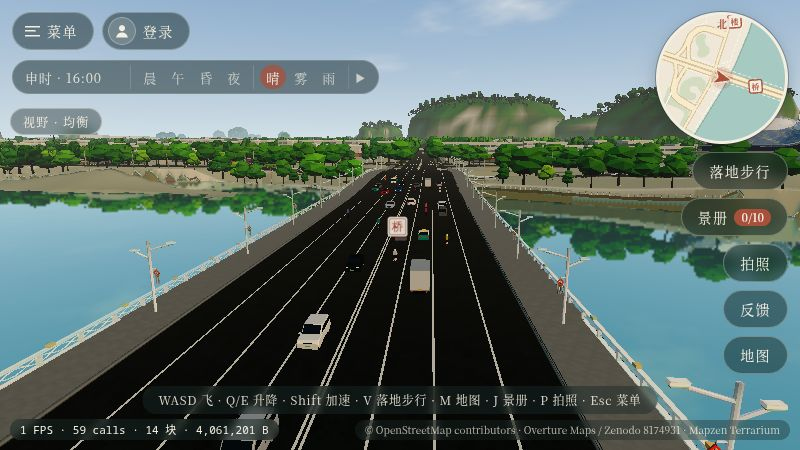
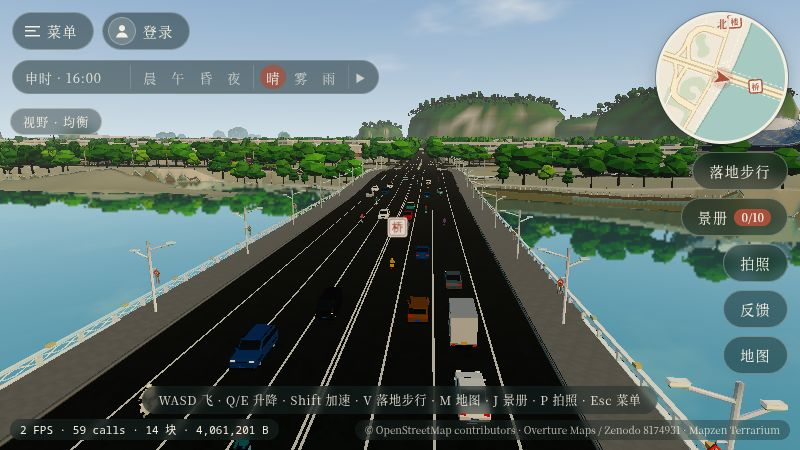
Protect pickup clearance and index static traffic contacts

diff --git a/web/src/traffic/sim.ts b/web/src/traffic/sim.ts
@@ -1,8 +1,9 @@
-import {resolveContact,staticSolids} from './contact.ts'
+import {nearStatic,resolveContact,staticSolids} from './contact.ts'
 type Node = {id:number,x:number,y:number,z:number}
 type Lane = {id:number,from:number,to:number,offset:number,kind:'motor'|'bus'|'nonmotor',speedKmh:number,cls?:string}
 const tier=(cls?:string)=>cls==='primary'||cls==='trunk'?0:cls==='secondary'?1:cls==='tertiary'?2:3
 const density=[1,.6,.35,.12]
+const sector=(point:Position,center:Position)=>(Math.floor(Math.atan2(point.x-center.x,point.z-center.z)*4/Math.PI+.5)+8)%8
 type Phase = {lanes:number[],green:number,yellow:number}
 type Signal={node:number,group:number,offset:number,phases:Phase[]}
 export type Graph = {nodes:Node[],lanes:Lane[],walks:[number,number,number,number?][],signals:Signal[]}
@@ -113,10 +114,17 @@ export class Traffic {
     let persons=0,scooters=0
     this.updateLimits(camera)
     const counts=[0,0,0,0]
-    for(const actor of this.actors)if(actor.kind!=='person')counts[tier(actor.track.cls)]++
-    for(const actor of this.actors){persons+=Number(actor.kind==='person');scooters+=Number(actor.kind==='scooter')}
+    let outside=0
+    const canSpawn=this.actors.length<80
+    const nearbySectors=canSpawn&&visible?new Uint8Array(8):null
+    const sectorPopulation=nearbySectors?new Uint8Array(8):null
+    for(const actor of this.actors){
+      if(actor.kind==='person'){persons++;continue}
+      counts[tier(actor.track.cls)]++;scooters+=Number(actor.kind==='scooter')
+      if(canSpawn&&visible&&!visible(actor))outside++
+      if(nearbySectors&&sectorPopulation){const octant=sector(actor,camera);sectorPopulation[octant]++;if(distanceSq(actor,camera)<65**2)nearbySectors[octant]++}
+    }
     let motors=this.actors.length-persons
-    let outside=visible?this.actors.reduce((count,actor)=>count+Number(actor.kind!=='person'&&!visible(actor)),0):0
     for(let attempt=0;attempt<48 && this.actors.length<80;attempt++){
       const walk=persons<20 && (motors>=60||attempt%3===0)
       if(!walk&&motors>=60)continue
@@ -130,10 +138,14 @@ export class Traffic {
       const actor:Actor={track,dist:this.random()*track.length,speed:0,kind:walk?'person':scooter?'scooter':'car',down:0,dodge:0,x:0,y:0,z:0,yaw:0,scale:0,leaving:false,halfWidth:scooter?.3:.9,halfLength:scooter?.85:2.1,height:1.5}
       this.position(actor)
       const offscreen=!walk&&visible&&!visible(actor)
+      const radial=distanceSq(actor,camera),octant=nearbySectors&&!walk?sector(actor,camera):-1
+      if(octant>=0&&offscreen&&sectorPopulation![octant]>=5&&sectorPopulation!.some(count=>count<4)&&this.random()>.04)continue
+      if(octant>=0&&motors>12&&nearbySectors![octant]<3&&radial>=65**2&&this.random()>.25)continue
       if(offscreen&&outside>=27&&this.limits[0]>=30&&this.random()>.04)continue
-      if(!walk&&resolveContact(actor,actor.y,actor.yaw,actor.halfWidth,actor.halfLength,staticSolids))continue
-      if(distanceSq(actor,camera)>185**2 || this.actors.some(other=>(other.x-actor.x)**2+(other.z-actor.z)**2<(other.track.id===track.id?36:5)))continue
+      if(!walk&&nearStatic(actor.x,actor.z)&&resolveContact(actor,actor.y,actor.yaw,actor.halfWidth,actor.halfLength,staticSolids))continue
+      if(radial>185**2 || this.actors.some(other=>(other.x-actor.x)**2+(other.z-actor.z)**2<(other.track.id===track.id?36:5)))continue
       this.actors.push(actor)
+      if(octant>=0){sectorPopulation![octant]++;if(radial<65**2)nearbySectors![octant]++}
       if(walk)persons++;else {counts[group]++;motors++;scooters+=Number(scooter);outside+=Number(!!offscreen)}
     }
     for(const [node,queue] of this.queues){
@@ -184,7 +196,7 @@ export class Traffic {
         advance=Math.min(advance,gap)
       }
       actor.speed=advance/dt;actor.dist+=advance
-      if(!person&&advance>0){
+      if(!person&&advance>0&&nearStatic(actor.x+track.dx*advance,actor.z+track.dz*advance)){
         const next={x:actor.x+track.dx*advance,y:actor.y,z:actor.z+track.dz*advance}
         if(resolveContact(next,next.y,track.yaw,actor.halfWidth,actor.halfLength,staticSolids)){actor.speed=0;actor.dist-=advance;continue}
       }

diff --git a/web/src/traffic/contact.ts b/web/src/traffic/contact.ts
@@ -5,19 +5,21 @@ type Visit=(x:number,z:number,callback:(solid:Solid)=>void)=>void
 export class SolidGrid {
   private bins=new Map<number,Set<Solid>>()
   add(solid:Solid){
-    const key=cellKey(Math.floor(solid.x/16),Math.floor(solid.z/16));let bin=this.bins.get(key)
-    if(!bin){bin=new Set();this.bins.set(key,bin)}bin.add(solid)
-    return ()=>{bin.delete(solid);if(!bin.size)this.bins.delete(key)}
+    const keys:number[]=[]
+    for(let east=Math.floor((solid.x-7)/16);east<=Math.floor((solid.x+7)/16);east++)for(let south=Math.floor((solid.z-7)/16);south<=Math.floor((solid.z+7)/16);south++){
+      const key=cellKey(east,south);let bin=this.bins.get(key)
+      if(!bin){bin=new Set();this.bins.set(key,bin)}bin.add(solid);keys.push(key)
+    }
+    return ()=>{for(const key of keys){const bin=this.bins.get(key);if(bin?.delete(solid)&&!bin.size)this.bins.delete(key)}}
   }
   clear(){this.bins.clear()}
   near:Visit=(x,z,callback)=>{
-    if(!this.bins.size)return
-    for(let east=Math.floor((x-7)/16);east<=Math.floor((x+7)/16);east++)for(let south=Math.floor((z-7)/16);south<=Math.floor((z+7)/16);south++){
-      const bin=this.bins.get(cellKey(east,south));if(bin)for(const solid of bin)callback(solid)
-    }
+    const bin=this.bins.get(cellKey(Math.floor(x/16),Math.floor(z/16)));if(bin)for(const solid of bin)callback(solid)
   }
+  hasNearby(x:number,z:number){return this.bins.size!==0&&this.bins.has(cellKey(Math.floor(x/16),Math.floor(z/16)))}
 }
 export const pickups=new SolidGrid(),curbside=new SolidGrid()
+export const nearStatic=(x:number,z:number)=>pickups.hasNearby(x,z)||curbside.hasNearby(x,z)
 export const staticSolids:Visit=(x,z,callback)=>{pickups.near(x,z,callback);curbside.near(x,z,callback)}
 let visit:Visit|undefined
 export function useTrafficSolids(source?:Visit){visit=source}

diff --git a/pipeline/traffic_parking.py b/pipeline/traffic_parking.py
@@ -53,9 +53,10 @@ def bake_parking(output, segments, elements, nodes, forbidden):
             lateral = extent-.95
             x = head['x']+east*along-south/length*lateral
             z = head['z']+south*along+east/length*lateral
+            x, z = round(x, 1), round(z, 1)
             point = Point(x, z)
             if (forbidden.intersects(point.buffer(2.6)) or junctions.query(point, predicate='dwithin', distance=18).size or
-                    legacy.query(point, predicate='dwithin', distance=5.5).size):
+                    legacy.query(point, predicate='dwithin', distance=8.0).size):
                 continue
             y = head['y']+(tail['y']-head['y'])*along
             key = f'{math.floor(x/256)}_{math.floor(z/256)}'
